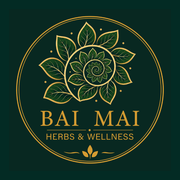
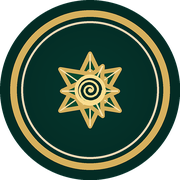
Add files via upload

diff --git a/index.html b/index.html
@@ -28,10 +28,11 @@
     <meta name="twitter:image:alt" content="BaiMai Herbs & Wellness round green and gold botanical logo" />
 
     <title>BaiMai Herbs & Wellness | Kratom Shop & Delivery Koh Phangan</title>
-    <link rel="icon" href="/favicon.ico?v=4" sizes="any" />
-    <link rel="icon" type="image/png" href="/favicon.png?v=4" />
-    <link rel="apple-touch-icon" href="/apple-touch-icon.png?v=4" />
-    <link rel="manifest" href="/manifest.webmanifest" />
+    <link rel="icon" href="/favicon.ico" sizes="any" />
+    <link rel="icon" type="image/png" sizes="32x32" href="/favicon-32x32.png" />
+    <link rel="icon" type="image/png" sizes="16x16" href="/favicon-16x16.png" />
+    <link rel="apple-touch-icon" sizes="180x180" href="/apple-touch-icon.png" />
+    <link rel="manifest" href="/site.webmanifest" />
     <script type="application/ld+json">
       {
         "@context": "https://schema.org",